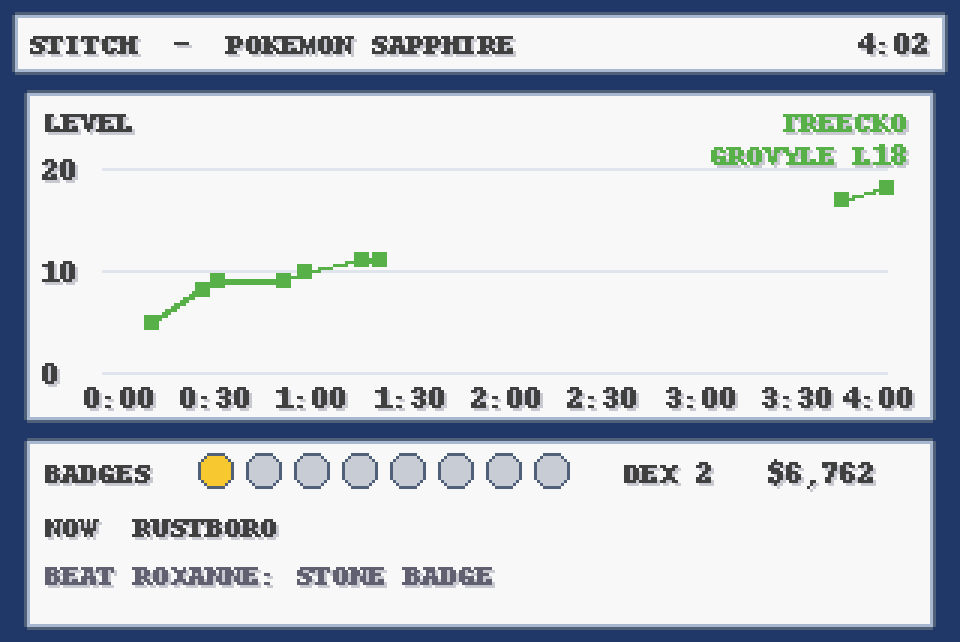
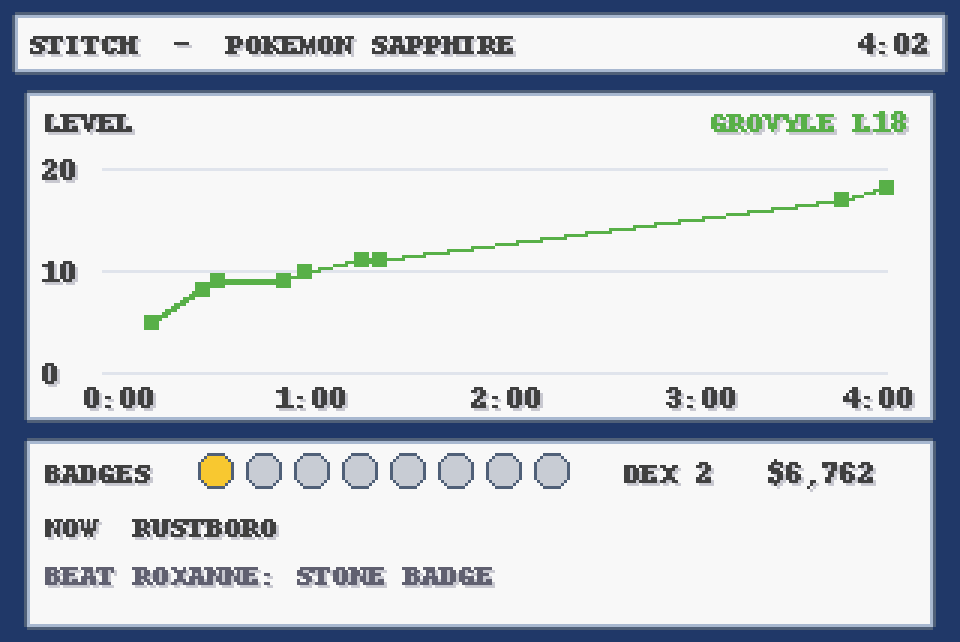
Pokemon graph: a line per party slot, so evolutions stay one line
Claude-Session: https://claude.ai/code/session_01GRUokM32JgeWkBY35PaRht

diff --git a/games/pokemon/graph.py b/games/pokemon/graph.py
@@ -57,25 +57,23 @@ def draw(out):
         yy = py1 - (py1 - py0) * v / lmax
         d.line([(px0, yy), (px1, yy)], fill=GRID)
         text(d, (x0 + 6, yy - 5), str(v), f)
-    for m in range(0, tmax + 1, max(15, tmax // 6 // 15 * 15)):
+    step = next(s for s in (15, 30, 60, 120, 240, 480, 960, 1920) if tmax / s <= 6)
+    for m in range(0, tmax + 1, step):
         xx = px0 + (px1 - px0) * m / tmax
         lab = f"{m // 60}:{m % 60:02d}"
         text(d, (min(xx - 6, x1 - 6 - f.getbbox(lab)[2]), py1 + 3), lab, f)
-    names = []
-    for r in data:
-        for n, _ in r["party"]:
-            if n not in names:
-                names.append(n)
-    for i, n in enumerate(names):
+    # One line per party slot, so an evolution keeps its line; the label is the slot's latest name.
+    slots = max([len(r["party"]) for r in data] + [0])
+    for i in range(slots):
+        rows_i = [r for r in data if len(r["party"]) > i]
+        n = rows_i[-1]["party"][i][0]
         col = TYPE.get(str(n).upper(), OTHER[i % len(OTHER)])
-        pts = [(px0 + (px1 - px0) * r["playMin"] / tmax, py1 - (py1 - py0) * lv / lmax)
-               for r in data for nn, lv in r["party"] if nn == n]
+        pts = [(px0 + (px1 - px0) * r["playMin"] / tmax, py1 - (py1 - py0) * r["party"][i][1] / lmax) for r in rows_i]
         if len(pts) > 1:
             d.line(pts, fill=col, width=2)
         for x, y in pts:
             d.rectangle([x - 2, y - 2, x + 2, y + 2], fill=col)
-        lv = [lv for nn, lv in last["party"] if nn == n]
-        label = f"{n.upper()} L{lv[0]}" if lv else n.upper()
+        label = f"{str(n).upper()} L{rows_i[-1]['party'][i][1]}"
         text(d, (x1 - 8 - f.getbbox(label)[2], y0 + 5 + i * 11), label, f, col)
 
     # Badges, dex and money, like the trainer card.
